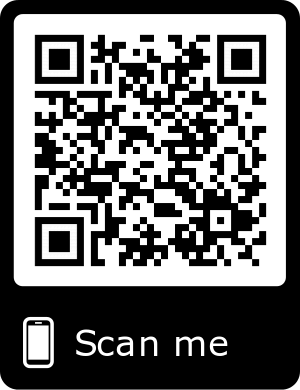
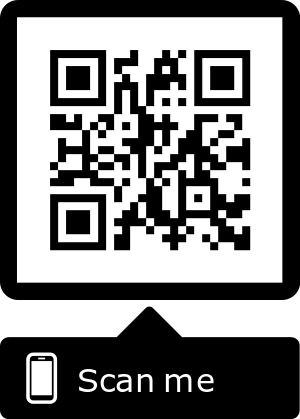
Clean up unused pictures

diff --git a/quantum-era/index.html b/quantum-era/index.html
@@ -41,23 +41,15 @@
         </section>
 
         <section class="no-deco">
-          <img src="imgs/qr.png" /><br/>
-          <a href="https://bit.ly/2SpbZKR">https://bit.ly/2SpbZKR</a>
-        </section>
-
-        <section style="text-align: left">
-          <img style="float: right; margin: 1rem" src="../imgs/contact/chibi.jpg" alt="me" class="plain" style="width: 250px; height:auto;"/>
-          <p>Salvador de la Puente González</p>
-          <p><a href="https://salvadelapuente.com">https://salvadelapuente.com</a></p>
-          <p><a href="https://github.com/delapuente">https://github.com/delapuente</a></p>
-          <p><a href="https://delapuente.github.io/presentations/">https://delapuente.github.io/presentations/</a></p>
+          <img src="imgs/qr.png" style="background: none" /><br/>
+          <a href="https://bit.ly/2Ub87Kj">https://bit.ly/2Ub87Kj</a>
         </section>
 
         <section data-markdown>
-          ## Índice
+          ## Index
           1. IBM-Q
           2. Computación cuántica
-          3. Qiskit &amp;
+          3. Qiskit &amp; Quantum Experience
         </section>
 
         <section>
@@ -72,50 +64,50 @@
           </section>
 
           <section data-markdown>
-            <!-- Ordenadores cuánticos -->
+            ### The quantum computer
           </section>
 
           <section data-markdown>
-            <!-- Volúmen cuántico -->
+            ![Quantum processor temperatures](./imgs/procesador-cuantico.png)
+
+            The quantum computer is mostly a big refrigerator and isolator.
+          </section>
+
+          <section>
+            <img alt="7 qubit chip" style="height: 300px" src="./imgs/7-qubit-chip.png">
+            <img alt="7 qubit chip with elements highlighted" style="height: 300px" src="./imgs/7-qubit-chip-elements.jpeg">
+
+            <p>We use <a href="https://medium.com/@jonathan_hui/qc-how-to-build-a-quantum-computer-with-superconducting-circuit-4c30b1b296cd" target="_blank">superconductor qubits</a>
+            based on capacitors combined with a Josephson junction that
+            <strong>behaves like a 2-energy-levels atom</strong>.</p>
           </section>
 
           <section data-markdown>
-            <!-- Tecnología propia -->
+            This is a **general-purpose** quantum computer.
           </section>
 
           <section data-markdown>
-            <!-- Arquitectura -->
+            Quantum volume is a measurement of the power of a quantum computer.
+            It requires **error correction to improve** before increasing
+            the power of a computer.
           </section>
 
           <section data-markdown>
-            <!-- Quantum Experience -->
+            ![Quantum volume requires improving error correction for improving power](./imgs/quantum-volume.png)
           </section>
 
           <section data-markdown>
-            <!-- Comunidad -->
-          </section>
-
-          <section data-markdown>
-            <!-- Qiskit Camp -->
-          </section>
-
-          <section data-markdown>
-            <!-- Training Camps -->
-          </section>
-
-          <section data-markdown>
-            Datos (desalentadores) de los procesadores cuánticos actuales:
-            * 100 micro-segundos de [coherencia](https://en.wikipedia.org/wiki/Quantum_decoherence) (tiempo de ejecución).
-            * Puesta a punto de milisegundos; productividad del 10%.
-            * Temperatura de operación de [3 mK](https://en.wikipedia.org/wiki/Absolute_zero).
-            * Del orden de ¡miles! de cúbits extra por cada cúbit lógico libre de error.
+            Dissapointing facts of quantum processors right now:
+              * 100 micro-secongs until [decoherence](https://en.wikipedia.org/wiki/Quantum_decoherence) (execution time).
+              * Re-calibration in the order of miliseconds; 10% of productivity.
+              * Operation temperature of [20 mK](https://en.wikipedia.org/wiki/Absolute_zero).
+              * Error mitigation requires **thousands** of physical qubits to ensure a
+              logical one.
           </section>
 
           <section data-markdown>
             References
             * [Quantum Ready now, Quantum Advantage tomorrow](https://medium.com/@rssutor/quantum-ready-now-quantum-advantage-tomorrow-14739a28c6f5)
-            * [Qiskit and its Fundamental Elements](https://medium.com/qiskit/qiskit-and-its-fundamental-elements-bcd7ead80492)
-            * [My Quantum Circuit Simulator: Quirk](http://algassert.com/2016/05/22/quirk.html)
             * [Quantum Error Correction for Beginners](https://arxiv.org/pdf/0905.2794.pdf)
           </section>
         </section>
@@ -444,6 +436,44 @@
             * [Quantum Computing for Computer Scientist](https://www.youtube.com/watch?v=F_Riqjdh2oM)
             * [A Short Guide to Hard Problems](https://www.quantamagazine.org/a-short-guide-to-hard-problems-20180716/)
             * [Finally, a Problem That Only Quantum Computers Will Ever Be Able to Solve](https://www.quantamagazine.org/finally-a-problem-that-only-quantum-computers-will-ever-be-able-to-solve-20180621/)
+          </section>
+        </section>
+
+        <section>
+          <section data-markdown>
+            ## Qiskit &amp; Quantum Experience
+          </section>
+
+          <section data-markdown>
+            ### Community
+          </section>
+
+          <section data-markdown>
+            Reach out!
+              * [Join us in Slack](https://qiskit.slack.com/join/shared_invite/enQtNDc2NjUzMjE4Mzc0LTMwZmE0YTM4ZThiNGJmODkzN2Y2NTNlMDIwYWNjYzA2ZmM1YTRlZGQ3OGM0NjcwMjZkZGE0MTA4MGQ1ZTVmYzk)
+              * [Follow us on Twitter](https://twitter.com/qiskit)
+              * [Contribute to Open Source](https://github.com/qiskit/qiskit-terra)
+              * [Read more on Medium](https://medium.com/@qiskit)
+          </section>
+
+          <section data-markdown>
+            ### Qiskit Camps
+          </section>
+
+          <section>
+            <iframe width="800" height="600" src="https://www.youtube.com/embed/o2DNEhAKJeo" frameborder="0" allow="accelerometer; autoplay; encrypted-media; gyroscope; picture-in-picture" allowfullscreen></iframe>
+            <p><a href="https://qiskit.camp/">NY Qiskit Camp</a>: 3-day learning and hacking experience.</p>
+          </section>
+
+          <section data-markdown>
+            [Madrid Qiskit Training Camp](https://madrid.qiskit.camp/)
+          </section>
+
+          <section data-markdown>
+            References:
+              * [Qiskit](https://qiskit.org/)
+              * [Qiskit Organization on GitHub](https://github.com/qiskit)
+              * [Qiskit and its Fundamental Elements](https://medium.com/qiskit/qiskit-and-its-fundamental-elements-bcd7ead80492)
           </section>
         </section>
       </div>
